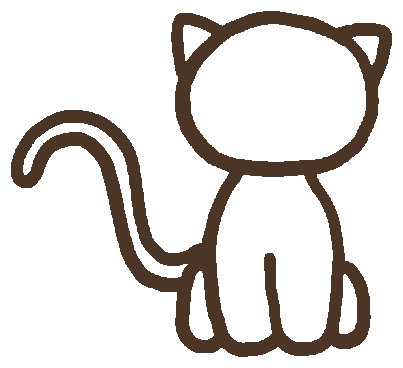
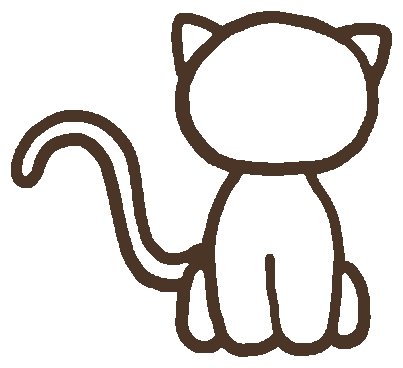
style(cats): outlines about eight percent thinner on every pose
Every outline loses one pixel along the side that faces the fill, taking the
adults from about thirteen pixels to twelve; the kitten's ring goes to part
alpha instead, so her four-pixel line thins by the same share. The outer
contour toward the page is untouched, so each silhouette stays exactly as
drawn. The fill is solid beneath the lines, so nothing shows through the gap.

The thicker outline had covered a scatter of one-to-three-pixel specks in
the adults' inner layers, fringe left from splitting the lined file; those
components are dropped so they do not surface along the new edge. The lying
pose keeps all but the smallest, since its inner lines were already broken
into short runs by the rotation. Layer requests carry a new version.

diff --git a/components/CatPortrait.tsx b/components/CatPortrait.tsx
@@ -41,7 +41,7 @@ interface Props {
 const LAYER_DIR = '/images/portraits/'
 /* Bumped whenever the layer files are regenerated. The file names never
    change, so without this a browser keeps serving the old lines from cache. */
-const LAYER_VERSION = 13
+const LAYER_VERSION = 14
 
 interface PoseLayers {
   width: number
